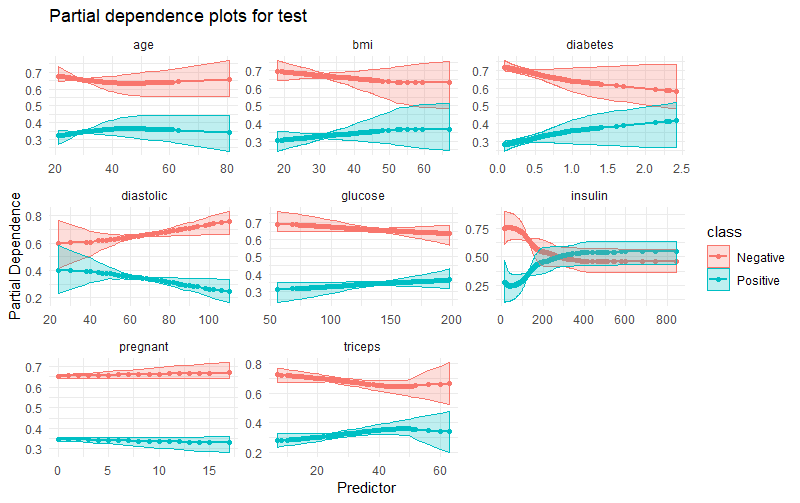
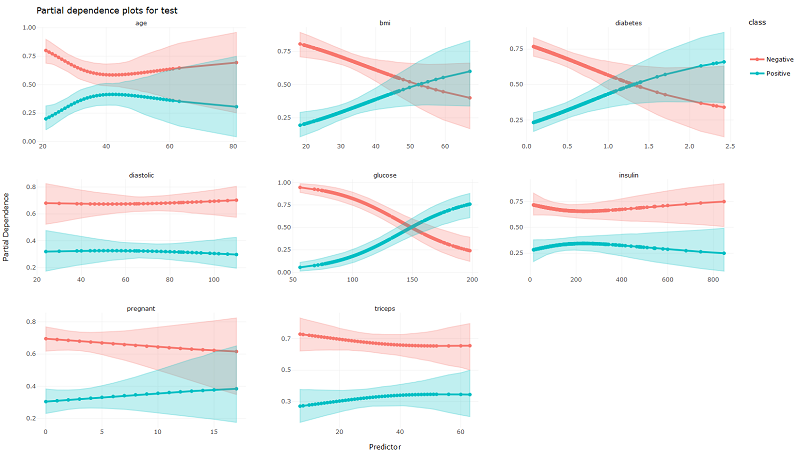
Updated Readme.

diff --git a/README.md b/README.md
@@ -24,6 +24,10 @@ Step by step procedure:
 1. Fit  a neural network using the NeuralNetwork class (uses the famous neuralnet package for fitting the model)
 2. Create visualizations of the partial dependencies using the plot_partial_dependencies function (creates visualizations in ggplot2 and if wanted in plotly, adds a confidence interval)
 
+Confidence intervals for the partial dependencies can be created directly using the plot_partial_dependencies function or by providing the options parameter while creating the NeuralNetwork model.
+
+The following example models can be obtained using the example_nn_model function!
+
 **Numerical response variable:**
 ```r
 library(NeuralNetworkVisualization)
@@ -34,26 +38,33 @@ data <- Boston; data$chas <- as.factor(data$chas)
 train <- data
 
 set.seed(1)
-model <- NeuralNetwork(medv ~ ., data = train, layers = c(5, 3),
-                       scale = TRUE, linear.output = TRUE, threshold = 0.5)
+system.time(
+    model <- NeuralNetwork(medv ~ ., data = train, layers = c(5, 3),
+                           scale = TRUE, linear.output = TRUE, threshold = 0.5,
+                           options = list(store = TRUE, parallel = TRUE,
+                                          probs = c(0.05, 0.95),
+                                          nrepetitions = 1000)))
 
-plot_partial_dependencies(model, probs = c(0.1, 0.9), nrepetitions = 5)
+plot_partial_dependencies(model, use_stored_data = TRUE, type = "ggplotly")
 ```
 ![Numerical Plot 1](inst/img/numerical_plot_1.png "fig:")
 
 ```r
-plot_partial_dependencies(model, predictors = "crim", probs = c(0.05, 0.95),
-                          nrepetitions = 5)
+plot_partial_dependencies(model, predictors = "crim", use_stored_data = TRUE)
 ```
 ![Numerical Plot 2](inst/img/numerical_plot_2.png "fig:")
 
 ```r
-plot_partial_dependencies(model, predictors = c("crim", "age"),
-                          type = "ggplotly", probs = c(0.05, 0.95),
-                          nrepetitions = 5)
+plot_partial_dependencies(model, predictors = "crim")
 ```
 ![Numerical Plot 3](inst/img/numerical_plot_3.png "fig:")
 
+```r
+plot_partial_dependencies(model, predictors = c("crim", "age"),
+                          type = "ggplotly", probs = c(0.05, 0.95),
+                          nrepetitions = 100, parallel = TRUE)
+```
+![Numerical Plot 4](inst/img/numerical_plot_4.png "fig:")
 
 **Categorical response variable:**
 ```r
@@ -65,27 +76,35 @@ data("iris")
 train_model <- iris
 
 set.seed(1)
-model <- NeuralNetwork(
-    Species ~ .,
-    data = train_model, layers = c(5, 5), rep = 5, linear.output = FALSE,
-    scale = TRUE, err.fct = "ce", stepmax = 1000000, threshold = 0.5)
+system.time(
+    model <- NeuralNetwork(
+        Species ~ ., data = train_model, layers = c(5, 5), rep = 5,
+        linear.output = FALSE, scale = TRUE, err.fct = "ce", stepmax = 1000000,
+        threshold = 0.5, options = list(
+            store = TRUE, parallel = TRUE, nrepetitions = 1000,
+            probs = c(0.05, 0.95))))
 
-plot_partial_dependencies(model, probs = c(0.1, 0.9), nrepetitions = 5,
-                          type = "ggplotly")
+plot_partial_dependencies(model, type = "ggplotly", use_stored_data = TRUE)
 ```
 ![Categorical Plot 1](inst/img/categorical_plot_1.png "fig:")
 
 ```r
-plot_partial_dependencies(model, predictors = "Sepal.Length")
+plot_partial_dependencies(model, predictors = "Sepal.Length",
+                          use_stored_data = TRUE)
 ```
 ![Categorical Plot 2](inst/img/categorical_plot_2.png "fig:")
 
 ```r
-plot_partial_dependencies(model, predictors = c("Sepal.Length", "Petal.Length"),
-                          type = "ggplotly", probs = c(0.1, 0.9),
-                          nrepetitions = 20)
+plot_partial_dependencies(model, predictors = "Sepal.Length")
 ```
 ![Categorical Plot 3](inst/img/categorical_plot_3.png "fig:")
+
+```r
+plot_partial_dependencies(model, predictors = c("Sepal.Length", "Petal.Length"),
+                          type = "ggplotly", probs = c(0.1, 0.9),
+                          nrepetitions = 100, parallel = TRUE)
+```
+![Categorical Plot 4](inst/img/categorical_plot_4.png "fig:")
 
 **Binary response variable:**
 ```r
@@ -104,30 +123,40 @@ levels(pima$test) <- c("Negative", "Positive")
 train <- pima
 
 set.seed(1)
-model <- NeuralNetwork(test ~ pregnant + glucose + diastolic + triceps +
-                           insulin + bmi + diabetes + age, data = train,
-                       layers = 2, err.fct = "ce", linear.output = FALSE,
-                       threshold = 0.5, stepmax = 1e6)
+system.time(
+    model <- NeuralNetwork(
+        test ~ pregnant + glucose + diastolic + triceps + insulin + bmi +
+            diabetes + age, data = train, layers = 2, err.fct = "ce",
+        linear.output = FALSE, threshold = 1.0, stepmax = 1e6, scale = TRUE,
+        options = list(store = TRUE, parallel = TRUE, probs = c(0.05, 0.95),
+                       nrepetitions = 1000)))
 
-plot_partial_dependencies(model, probs = c(0.1, 0.9), nrepetitions = 5)
+plot_partial_dependencies(model, use_stored_data = TRUE, type = "ggplotly")
 ```
 ![Binary Plot 1](inst/img/binary_plot_1.png "fig:")
 
 ```r
-plot_partial_dependencies(model, predictors = "glucose")
+plot_partial_dependencies(model, predictors = "glucose", use_stored_data = TRUE)
 ```
 ![Binary Plot 2](inst/img/binary_plot_2.png "fig:")
 
 ```r
-plot_partial_dependencies(model, predictors = c("pregnant", "diastolic"),
-                          type = "ggplotly", probs = c(0.05, 0.95),
-                          nrepetitions = 5)
+plot_partial_dependencies(model, predictors = "glucose")
 ```
 ![Binary Plot 3](inst/img/binary_plot_3.png "fig:")
+
+```r
+plot_partial_dependencies(model, predictors = c("pregnant", "diastolic"),
+                          type = "ggplotly", probs = c(0.05, 0.95),
+                          nrepetitions = 100, parallel = TRUE)
+```
+![Binary Plot 4](inst/img/binary_plot_4.png "fig:")
 
 ## Shiny App
 
 **Please run the shiny app within a modern browser. Dont be stupid trying to use Microsoft Internet Explorer or Edge.**
+
+Within the shiny app NeuralNetwork models can be uploaded as a .rds file, selected from the global environment or the available example models can be used.
 
 **Run the shiny app:**
 ```r
